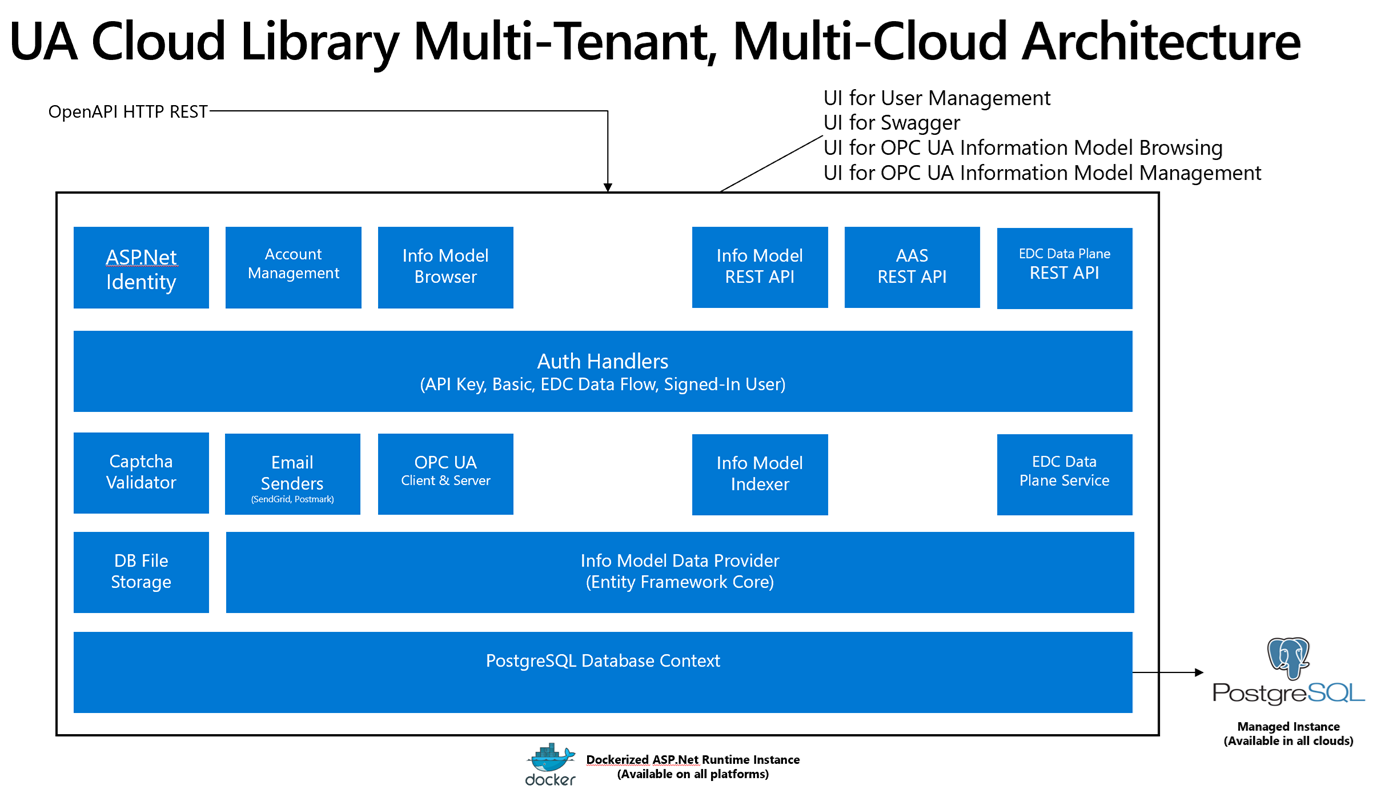
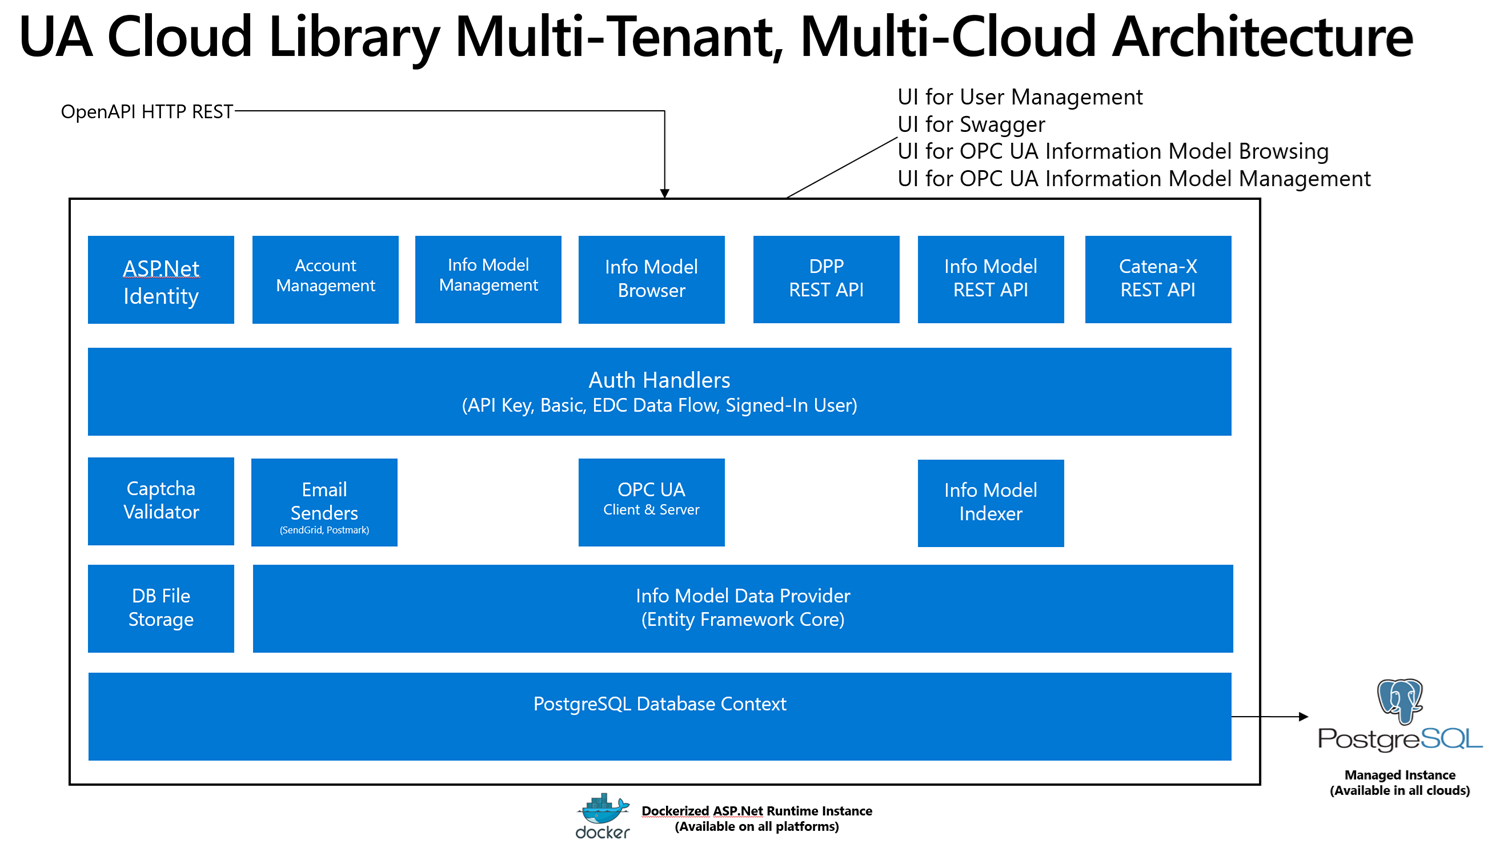
Bug fixes from Copilot review.

diff --git a/UACloudLibraryServer/DbFileVersionArchive.cs b/UACloudLibraryServer/DbFileVersionArchive.cs
@@ -1,9 +1,11 @@
 using System;
 using System.Collections.Generic;
 using System.Globalization;
+using System.Security.Cryptography;
+using System.Text.Json;
+using System.Threading;
 using System.Threading.Tasks;
 using Microsoft.Extensions.Logging;
-using Newtonsoft.Json;
 using Opc.Ua.Cloud.Library.Models;
 
 namespace Opc.Ua.Cloud.Library
@@ -17,12 +19,47 @@ namespace Opc.Ua.Cloud.Library
     /// </summary>
     public sealed class DbFileVersionArchive : IDppVersionArchive
     {
-        // Row-name layout: "dpp-archive::{dppId}::{capturedAtUtcTicks:D19}"
-        // The fixed-width D19 tick stamp makes lexicographic ordering match chronological order,
-        // which lets us pick the snapshot at-or-before a target time with an ordered prefix scan.
+        // Row-name layout: "dpp-archive::{dppId}::{capturedAtUtcTicks:D19}-{counter:D6}{randomHex}"
+        //
+        // The fixed-width D19 tick stamp is the dominant sort key, so lexicographic ordering
+        // still matches chronological order and the at-or-before lookup in GetVersionAtAsync
+        // remains an ordered prefix scan. The "-{counter:D6}{randomHex}" suffix exists only to
+        // break ties when multiple snapshots are captured at the same tick:
+        //  - {counter:D6} is a per-process monotonic counter (Interlocked.Increment), so two
+        //    in-process callers that observe the same tick are guaranteed to produce distinct,
+        //    deterministically-ordered names without any DB round-trip.
+        //  - {randomHex} is 8 hex chars from RandomNumberGenerator, making the row name unique
+        //    across processes as well. This makes the underlying insert itself the arbiter:
+        //    DbFiles.Name is the [Key] of the table, so the database uniqueness constraint
+        //    rejects any genuine duplicate instead of the previous racy check-then-write loop
+        //    (two callers can observe the same free name and both upsert through
+        //    UploadFileAsync, which silently overwrites the loser's row).
+        //
+        // Within the same tick, sort order is (counter asc, randomHex asc); the at-or-before
+        // query in GetVersionAtAsync still selects the greatest candidate whose ticks <= target,
+        // which is the most recent write at that tick - the same behavior as before.
         private const string KeyPrefix = "dpp-archive::";
         private const string KeySeparator = "::";
         private const string TickFormat = "D19";
+        private const char TickSuffixSeparator = '-';
+
+        // Per-process monotonic counter for the in-process tie-break component of the row name.
+        // Starts negative so the first increment wraps to a small positive value; the field is
+        // long-sized so practical wraparound is impossible.
+        private static long s_sequence;
+
+        // Snapshots must round-trip the polymorphic DataElement hierarchy declared on
+        // DigitalProductPassport. The model uses System.Text.Json polymorphism
+        // ([JsonPolymorphic]/[JsonDerivedType] with discriminator "objectType") plus
+        // [JsonPropertyName] overrides and [JsonStringEnumConverter] on Granularity, so the
+        // archive must (de)serialize with System.Text.Json - Newtonsoft.Json would ignore
+        // those attributes and fail to instantiate the abstract DataElement base type on read.
+        // DefaultIgnoreCondition.WhenWritingNull keeps optional members (e.g. FacilityId,
+        // ContentSpecificationIds, DictionaryReference, ValueDataType) out of the stored blob.
+        private static readonly JsonSerializerOptions s_snapshotJsonOptions = new() {
+            DefaultIgnoreCondition = System.Text.Json.Serialization.JsonIgnoreCondition.WhenWritingNull,
+            WriteIndented = false
+        };
 
         private readonly DbFileStorage _storage;
         private readonly ILogger<DbFileVersionArchive> _logger;
@@ -44,16 +81,12 @@ namespace Opc.Ua.Cloud.Library
 
             long ticks = capturedAtUtc.ToUniversalTime().UtcTicks;
 
-            // Tie-break by nudging forward so concurrent updates with identical timestamps don't collide
-            // on the row primary key.
+            // The row name carries a per-process counter plus a random tail, so it is unique
+            // by construction and the underlying DbFiles primary key (DbFiles.Name) is the
+            // sole arbiter of collisions. No check-then-write loop is needed.
             string name = BuildRowName(dppId, ticks);
-            while (await _storage.FindFileAsync(name).ConfigureAwait(false) != null)
-            {
-                ticks++;
-                name = BuildRowName(dppId, ticks);
-            }
 
-            string payload = JsonConvert.SerializeObject(snapshot);
+            string payload = JsonSerializer.Serialize(snapshot, s_snapshotJsonOptions);
             string stored = await _storage.UploadFileAsync(name, payload, null).ConfigureAwait(false);
             if (string.IsNullOrEmpty(stored))
             {
@@ -79,6 +112,8 @@ namespace Opc.Ua.Cloud.Library
             string match = null;
 
             // Names are returned in ascending order; pick the greatest one whose ticks <= target.
+            // Within the same tick, the (counter, randomHex) suffix orders ties deterministically,
+            // so this still selects the most recent write at that tick.
             foreach (string candidate in names)
             {
                 if (!TryParseTicks(candidate, prefix, out long candidateTicks))
@@ -107,7 +142,7 @@ namespace Opc.Ua.Cloud.Library
 
             try
             {
-                return JsonConvert.DeserializeObject<DigitalProductPassport>(row.Blob);
+                return JsonSerializer.Deserialize<DigitalProductPassport>(row.Blob, s_snapshotJsonOptions);
             }
             catch (JsonException ex)
             {
@@ -123,7 +158,24 @@ namespace Opc.Ua.Cloud.Library
 
         private static string BuildRowName(string dppId, long ticks)
         {
-            return BuildRowPrefix(dppId) + ticks.ToString(TickFormat, CultureInfo.InvariantCulture);
+            // Combine the per-process counter with a short random tail so the resulting name is
+            // unique across both threads and processes, eliminating the previous check-then-write
+            // race. The "-" separator is reserved (D19 ticks are all digits) so TryParseTicks can
+            // recover the tick field by splitting on the first '-'.
+            long sequence = Interlocked.Increment(ref s_sequence) & 0xFFFFFF; // 6 hex digits' worth
+            string randomHex = NextRandomHex8();
+            return BuildRowPrefix(dppId)
+                + ticks.ToString(TickFormat, CultureInfo.InvariantCulture)
+                + TickSuffixSeparator
+                + sequence.ToString("D6", CultureInfo.InvariantCulture)
+                + randomHex;
+        }
+
+        private static string NextRandomHex8()
+        {
+            Span<byte> bytes = stackalloc byte[4];
+            RandomNumberGenerator.Fill(bytes);
+            return Convert.ToHexString(bytes);
         }
 
         private static bool TryParseTicks(string rowName, string prefix, out long ticks)
@@ -134,7 +186,14 @@ namespace Opc.Ua.Cloud.Library
                 return false;
             }
 
-            string tickField = rowName.Substring(prefix.Length);
+            string tail = rowName.Substring(prefix.Length);
+
+            // The tail is "{ticks:D19}-{counter:D6}{randomHex}"; isolate the tick field by
+            // splitting on the first '-'. For backward compatibility, also accept the legacy
+            // "{ticks:D19}" layout (no suffix) so any previously archived rows still parse.
+            int separatorIndex = tail.IndexOf(TickSuffixSeparator, StringComparison.InvariantCulture);
+            string tickField = separatorIndex < 0 ? tail : tail.Substring(0, separatorIndex);
+
             return long.TryParse(tickField, NumberStyles.Integer, CultureInfo.InvariantCulture, out ticks);
         }
     }

diff --git a/UACloudLibraryServer/DPPService.cs b/UACloudLibraryServer/DPPService.cs
@@ -251,19 +251,29 @@ namespace Opc.Ua.Cloud.Library
             };
 
         /// <summary>
-        /// Applies a partial update (RFC 7396 JSON Merge Patch semantics) to the DPP with the given ID
-        /// per EN 18222 (Method UpdateDPPById).
+        /// Applies a partial update to the DPP with the given ID per EN 18222 (Method UpdateDPPById).
         /// </summary>
         /// <remarks>
+        /// The update has merge-patch-shaped semantics (RFC 7396): only the fields that appear
+        /// in the request body are touched, and members that are absent from the body are left
+        /// unchanged. The full RFC 7396 deletion rule (a JSON member with value <c>null</c> means
+        /// "delete that field") is intentionally <b>not</b> implemented because the DPP is backed
+        /// by a fixed OPC UA address space (nodes cannot be created or destroyed at runtime, and
+        /// EN 18223 Clause 4.1.2.1 Table 1 marks most header fields as required with cardinality
+        /// [1]). Consequently:
+        /// <list type="bullet">
+        ///   <item>An explicit <c>null</c> on any scalar field is rejected as <see cref="UpdateDppResult.BadRequest"/>.</item>
+        ///   <item>The <c>elements</c> member must be a JSON array; <c>null</c> and any non-array value are rejected.</item>
+        ///   <item>Within <c>elements</c>, each entry updates the leaf addressed by its <c>elementId</c>;
+        ///         child <c>DataElement</c> nodes are never added or removed.</item>
+        /// </list>
         /// The spec requires that "if the update of some parts fails the complete update process will fail
         /// and there should be no changes adopted in the DPP". OPC UA writes are not transactional, so this
         /// method performs an up-front resolution pass (locating every target node and validating field names)
         /// before issuing any writes, minimizing the risk of partial application. A snapshot of the current DPP
         /// state is captured to <see cref="IDppVersionArchive"/> immediately before writes are applied,
         /// satisfying the EN 18221 Clause 4.2 archiving requirement (durable archival depends on the configured
-        /// <see cref="IDppVersionArchive"/> implementation). Following RFC 7396, a JSON member whose value is
-        /// <c>null</c> means "delete that field"; for the OPC UA backing store this is approximated by
-        /// writing an empty string to the underlying variable.
+        /// <see cref="IDppVersionArchive"/> implementation).
         /// </remarks>
         public async Task<(UpdateDppResult Result, string ErrorMessage, DigitalProductPassport Updated)> UpdateDppById(
             string userId, string dppId, JsonObject partial)
@@ -312,7 +322,8 @@ namespace Opc.Ua.Cloud.Library
 
                     if (entry.Value is not JsonArray elementsArray)
                     {
-                        return (UpdateDppResult.BadRequest, "'elements' must be a JSON array.", null);
+                        // Deletion / clearing of the elements collection is not supported; see method remarks.
+                        return (UpdateDppResult.BadRequest, "'elements' must be a JSON array (deletion via null is not supported).", null);
                     }
 
                     var (err, resolved) = await ResolveElementWritesAsync(userId, dppId, elementsNode, elementsArray, "elements").ConfigureAwait(false);
@@ -334,6 +345,14 @@ namespace Opc.Ua.Cloud.Library
                 if (target == null)
                 {
                     return (UpdateDppResult.BadRequest, $"DPP does not expose field: '{entry.Key}'.", null);
+                }
+
+                // Reject explicit null on scalar fields: deletion is not supported (see method remarks).
+                // Omitting the member from the request leaves the field unchanged, which is the spec-correct
+                // way to "not touch" a field under merge-patch-shaped semantics.
+                if (entry.Value is null)
+                {
+                    return (UpdateDppResult.BadRequest, $"Field '{entry.Key}' cannot be set to null; omit it from the request to leave it unchanged.", null);
                 }
 
                 pendingWrites.Add((target.Id, JsonNodeToWireValue(entry.Value), entry.Key));
@@ -575,8 +594,10 @@ namespace Opc.Ua.Cloud.Library
                     continue;
                 }
 
-                // Element entry with no actionable content (e.g. just metadata) is ignored, matching
-                // RFC 7396 semantics where unspecified members are left unchanged.
+                // Element entry with no actionable content (e.g. just metadata) is ignored under
+                // the merge-patch-shaped semantics described on UpdateDppById: members that are
+                // absent from the partial body are left unchanged. (Full RFC 7396 deletion is not
+                // supported, because the underlying OPC UA Elements subtree is a fixed schema.)
             }
 
             return (null, writes);

diff --git a/UACloudLibraryServer/Models/Pagination.cs b/UACloudLibraryServer/Models/Pagination.cs
@@ -1,3 +1,4 @@
+#nullable enable
 using System.Text.Json.Serialization;
 
 namespace Opc.Ua.Cloud.Library.Models
@@ -7,8 +8,17 @@ namespace Opc.Ua.Cloud.Library.Models
     /// supports paging (EN 18222 — <c>ReadDPPIdsByProductIds</c>).
     /// The pagination data lives alongside, but separately from, the response payload.
     /// </summary>
+    /// <remarks>
+    /// <see cref="NextCursor"/> is nullable: it is only populated when <see cref="HasMore"/> is
+    /// <c>true</c>. The <see cref="JsonIgnoreAttribute"/> with
+    /// <see cref="JsonIgnoreCondition.WhenWritingNull"/> keeps the serialized envelope from
+    /// emitting <c>"nextCursor": null</c> on the final page, which would otherwise be
+    /// indistinguishable from a missing cursor on the wire.
+    /// </remarks>
     public sealed record Pagination(
-        [property: JsonPropertyName("nextCursor")] string NextCursor,
+        [property: JsonPropertyName("nextCursor")]
+        [property: JsonIgnore(Condition = JsonIgnoreCondition.WhenWritingNull)]
+        string? NextCursor,
         [property: JsonPropertyName("hasMore")] bool HasMore,
         [property: JsonPropertyName("limit")] int? Limit = null
     );

diff --git a/UACloudLibraryServer/Controllers/DPPLifecycleApiController.cs b/UACloudLibraryServer/Controllers/DPPLifecycleApiController.cs
@@ -156,9 +156,11 @@ namespace Opc.Ua.Cloud.Library.Controllers
         }
 
         // EN 18222: PATCH v1/dpps/{dppId}
-        // Body is the partial DPP (RFC 7396 JSON Merge Patch).
+        // Body is the partial DPP. Update semantics are merge-patch-shaped (only members present
+        // in the body are touched); full RFC 7396 deletion via null is not supported because the
+        // DPP is backed by a fixed OPC UA address space. See DPPService.UpdateDppById remarks.
         [HttpPatch("dpps/{dppId}")]
-        [Consumes("application/json", "application/merge-patch+json")]
+        [Consumes("application/json")]
         public async Task<ActionResult<ApiResponse<DigitalProductPassport>>> UpdateDppById(
             [FromRoute][Required] string dppId,
             [FromBody][Required] JsonObject partialDPP)
@@ -197,8 +199,10 @@ namespace Opc.Ua.Cloud.Library.Controllers
 
         // EN 18222: PATCH v1/dpps/{dppId}/elements/{elementIdPath}
         // Body is the new value (or a partial DataElement object) for the addressed leaf element.
+        // Update semantics are merge-patch-shaped, not RFC 7396: deletion of a leaf via null is
+        // not supported. See DPPService.UpdateDataElement remarks.
         [HttpPatch("dpps/{dppId}/elements/{*elementIdPath}")]
-        [Consumes("application/json", "application/merge-patch+json")]
+        [Consumes("application/json")]
         public async Task<ActionResult<ApiResponse<DataElement>>> UpdateDataElement(
             [FromRoute][Required] string dppId,
             [FromRoute][Required] string elementIdPath,

diff --git a/UACloudLibraryServer/Models/DppModel.cs b/UACloudLibraryServer/Models/DppModel.cs
@@ -9,12 +9,20 @@ namespace Opc.Ua.Cloud.Library.Models
     /// <summary>
     /// Level of granularity for <see cref="DigitalProductPassport.UniqueProductIdentifier"/>,
     /// per EN 18223 Clause 4.1.2.2 (enumeration for the <c>granularity</c> attribute).
+    /// The wire values are the lowercase tokens <c>"model"</c>, <c>"batch"</c>, <c>"item"</c>
+    /// fixed by the standard; each member uses <see cref="JsonStringEnumMemberNameAttribute"/>
+    /// to map to its spec-mandated token regardless of any project-wide naming policy.
     /// </summary>
-    [JsonConverter(typeof(JsonStringEnumConverter))]
+    [JsonConverter(typeof(JsonStringEnumConverter<Granularity>))]
     public enum Granularity
     {
+        [JsonStringEnumMemberName("model")]
         Model,
+
+        [JsonStringEnumMemberName("batch")]
         Batch,
+
+        [JsonStringEnumMemberName("item")]
         Item
     }
 

diff --git a/UACloudLibraryServer/DppJsonPath.cs b/UACloudLibraryServer/DppJsonPath.cs
@@ -167,6 +167,15 @@ namespace Opc.Ua.Cloud.Library
                     int start = i;
                     while (i < span.Length && span[i] != '.' && span[i] != '[')
                     {
+                        // Reject the wildcard selector here too: without this guard the
+                        // unprefixed leading segment would accept "*" or "foo*bar" as a
+                        // literal name, contradicting the documented RFC 9535 subset.
+                        if (span[i] == '*')
+                        {
+                            error = "Wildcard '*' is not supported.";
+                            return false;
+                        }
+
                         i++;
                     }
 

diff --git a/README.md b/README.md
@@ -84,7 +84,7 @@ The DPP header follows EN 18223 Clause 4.1.2.1 Table 1:
 |---|---|---|
 | `digitalProductPassportId` | [1] | Globally unique, URI/URL-shaped. |
 | `uniqueProductIdentifier` | [1] | Product identifier per EN 18219. |
-| `granularity` | [1] | Enumeration: `Model`, `Batch`, `Item`. |
+| `granularity` | [1] | Enumeration: `model`, `batch`, `item` (EN 18223 Clause 4.1.2.2 — lowercase on the wire). |
 | `dppSchemaVersion` | [1] | Reference standard the DPP schema follows. |
 | `dppStatus` | [1] | e.g. `active`, `inactive`, `archived`, `invalid`. |
 | `lastUpdate` | [1] | UTC timestamp per ISO 8601-1. |
@@ -131,7 +131,7 @@ Example DPP body returned by `GET v1/dpps/{dppId}` (abbreviated, expanded form):
 {
   "digitalProductPassportId": "https://uacloudlibrary.example.org/dpp/123",
   "uniqueProductIdentifier": "https://example.org/products/abc",
-  "granularity": "Model",
+  "granularity": "model",
   "dppSchemaVersion": "EN18223:v1.0",
   "dppStatus": "active",
   "lastUpdate": "2025-08-22T03:12:00Z",
@@ -207,7 +207,7 @@ All routes are versioned under `v1/` and require an authenticated principal sati
 | `GET`   | `v1/dppsByProductId/{productId}` | Returns the latest DPP whose `UniqueProductIdentifier` equals `productId` (resolved by browsing all nodesets visible to the caller and picking the newest `lastUpdate`). |
 | `POST`  | `v1/dppsByProductIds` | Returns the list of DPP identifiers matching the supplied `productIds`. Supports paging via `?limit=` and `?cursor=` query parameters; the response envelope carries a `pagination` block. |
 | `GET`   | `v1/dpps/{dppId}/elements/{*elementIdPath}` | Returns the `DataElement` addressed by the JSONPath subset described below. |
-| `PATCH` | `v1/dpps/{dppId}` | Applies a partial DPP using RFC 7396 JSON Merge Patch semantics. Accepts `application/json` or `application/merge-patch+json`. Snapshots the pre-update DPP into the archive, writes leaf values to the live OPC UA server, then persists the new values. |
+| `PATCH` | `v1/dpps/{dppId}` | Applies a partial DPP with merge-patch-shaped semantics: only members present in the request body are touched, members that are absent are left unchanged. Full RFC 7396 deletion (`null` means "delete that field") is **not** supported because the DPP is backed by a fixed OPC UA address space, so `null` on any scalar field and any non-array value for `elements` are rejected as `400`. Accepts `application/json`. Snapshots the pre-update DPP into the archive, writes leaf values to the live OPC UA server, then persists the new values. |
 | `PATCH` | `v1/dpps/{dppId}/elements/{*elementIdPath}` | Updates a single addressed leaf element. Snapshots, writes, and persists as above. |
 | `GET`   | `v1/dpps/{dppId}/versions/{date}` | Returns the DPP snapshot that was active at the supplied ISO 8601 timestamp. If `date` is &ge; "now", the live DPP is returned; otherwise the archive is consulted. Returns `404` when no version existed at that point in time. |
 